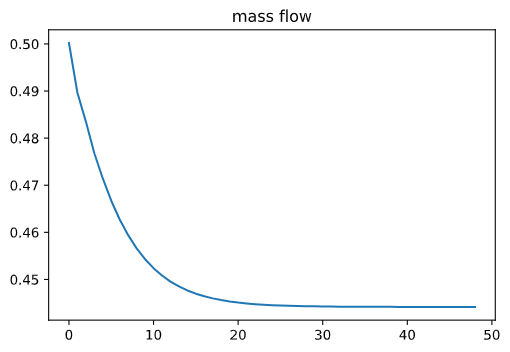
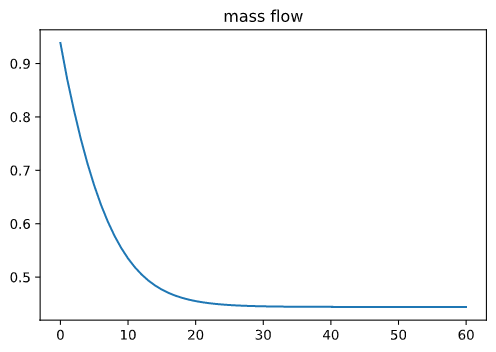
fix typos

diff --git a/simple-algorithm/index.html b/simple-algorithm/index.html
@@ -32,7 +32,7 @@
                 "url": "https:\/\/fr13ndsdp.github.io\/cover.png",
                 "width":  800 ,
                 "height":  600 
-            },"genre": "posts","keywords": "FVM, SIMPLE","wordcount":  1715 ,
+            },"genre": "posts","keywords": "FVM, SIMPLE","wordcount":  1605 ,
         "url": "https:\/\/fr13ndsdp.github.io\/simple-algorithm\/","datePublished": "2020-10-22T23:01:19+08:00","dateModified": "2020-10-23T13:48:00+08:00","license": "This work is licensed under a Creative Commons Attribution-NonCommercial 4.0 International License.","publisher": {
                 "@type": "Organization",
                 "name": "xxxx",
@@ -121,7 +121,7 @@
                                 <i class="far fa-folder fa-fw"></i>CFD
                             </a></span></div>
             <div class="post-meta-line"><i class="far fa-calendar-alt fa-fw"></i><time datetime=2020-10-22>2020-10-22</time>&nbsp;
-                <i class="fas fa-pencil-alt fa-fw"></i>约 1715 字&nbsp;
+                <i class="fas fa-pencil-alt fa-fw"></i>约 1605 字&nbsp;
                 <i class="far fa-clock fa-fw"></i>预计阅读 4 分钟&nbsp;</div>
         </div><div class="content" id="content"><p>SIMPLE 算法在一维稳态无粘不可压流动问题中的应用</p>
 <h4 id="1问题描述">1.问题描述</h4>
@@ -308,37 +308,6 @@ $$
 </span><span class="lnt">124
 </span><span class="lnt">125
 </span><span class="lnt">126
-</span><span class="lnt">127
-</span><span class="lnt">128
-</span><span class="lnt">129
-</span><span class="lnt">130
-</span><span class="lnt">131
-</span><span class="lnt">132
-</span><span class="lnt">133
-</span><span class="lnt">134
-</span><span class="lnt">135
-</span><span class="lnt">136
-</span><span class="lnt">137
-</span><span class="lnt">138
-</span><span class="lnt">139
-</span><span class="lnt">140
-</span><span class="lnt">141
-</span><span class="lnt">142
-</span><span class="lnt">143
-</span><span class="lnt">144
-</span><span class="lnt">145
-</span><span class="lnt">146
-</span><span class="lnt">147
-</span><span class="lnt">148
-</span><span class="lnt">149
-</span><span class="lnt">150
-</span><span class="lnt">151
-</span><span class="lnt">152
-</span><span class="lnt">153
-</span><span class="lnt">154
-</span><span class="lnt">155
-</span><span class="lnt">156
-</span><span class="lnt">157
 </span></code></pre></td>
 <td class="lntd">
 <pre class="chroma"><code class="language-python" data-lang="python"><span class="kn">import</span> <span class="nn">numpy</span> <span class="kn">as</span> <span class="nn">np</span>
@@ -362,31 +331,6 @@ $$
 
     <span class="k">return</span> <span class="n">phi</span>
 
-<span class="k">def</span> <span class="nf">vanLeer</span><span class="p">(</span><span class="n">u</span><span class="p">,</span><span class="n">n</span><span class="p">):</span>
-    <span class="n">re</span> <span class="o">=</span> <span class="p">(</span><span class="n">u</span><span class="p">[</span><span class="n">n</span><span class="p">]</span> <span class="o">-</span> <span class="n">u</span><span class="p">[</span><span class="n">n</span><span class="o">-</span><span class="mi">1</span><span class="p">])</span><span class="o">/</span><span class="p">(</span><span class="n">u</span><span class="p">[</span><span class="n">n</span><span class="o">+</span><span class="mi">1</span><span class="p">]</span> <span class="o">-</span> <span class="n">u</span><span class="p">[</span><span class="n">n</span><span class="p">])</span>
-    <span class="n">rw</span> <span class="o">=</span> <span class="p">(</span><span class="n">u</span><span class="p">[</span><span class="n">n</span><span class="o">-</span><span class="mi">1</span><span class="p">]</span> <span class="o">-</span> <span class="n">u</span><span class="p">[</span><span class="n">n</span><span class="o">-</span><span class="mi">2</span><span class="p">])</span><span class="o">/</span><span class="p">(</span><span class="n">u</span><span class="p">[</span><span class="n">n</span><span class="p">]</span> <span class="o">-</span> <span class="n">u</span><span class="p">[</span><span class="n">n</span><span class="o">-</span><span class="mi">1</span><span class="p">])</span>
-    <span class="n">phie</span> <span class="o">=</span> <span class="p">(</span><span class="n">re</span><span class="o">+</span><span class="nb">abs</span><span class="p">(</span><span class="n">re</span><span class="p">))</span><span class="o">/</span><span class="p">(</span><span class="mi">1</span><span class="o">+</span><span class="n">re</span><span class="p">)</span>
-    <span class="n">phiw</span> <span class="o">=</span> <span class="p">(</span><span class="n">rw</span><span class="o">+</span><span class="nb">abs</span><span class="p">(</span><span class="n">rw</span><span class="p">))</span><span class="o">/</span><span class="p">(</span><span class="mi">1</span><span class="o">+</span><span class="n">rw</span><span class="p">)</span>
-    <span class="k">return</span> <span class="n">phie</span><span class="p">,</span><span class="n">phiw</span>
-
-<span class="k">def</span> <span class="nf">minMod</span><span class="p">(</span><span class="n">u</span><span class="p">,</span><span class="n">n</span><span class="p">):</span>
-    <span class="n">re</span> <span class="o">=</span> <span class="p">(</span><span class="n">u</span><span class="p">[</span><span class="n">n</span><span class="p">]</span> <span class="o">-</span> <span class="n">u</span><span class="p">[</span><span class="n">n</span><span class="o">-</span><span class="mi">1</span><span class="p">])</span><span class="o">/</span><span class="p">(</span><span class="n">u</span><span class="p">[</span><span class="n">n</span><span class="o">+</span><span class="mi">1</span><span class="p">]</span> <span class="o">-</span> <span class="n">u</span><span class="p">[</span><span class="n">n</span><span class="p">])</span>
-    <span class="n">rw</span> <span class="o">=</span> <span class="p">(</span><span class="n">u</span><span class="p">[</span><span class="n">n</span><span class="o">-</span><span class="mi">1</span><span class="p">]</span> <span class="o">-</span> <span class="n">u</span><span class="p">[</span><span class="n">n</span><span class="o">-</span><span class="mi">2</span><span class="p">])</span><span class="o">/</span><span class="p">(</span><span class="n">u</span><span class="p">[</span><span class="n">n</span><span class="p">]</span> <span class="o">-</span> <span class="n">u</span><span class="p">[</span><span class="n">n</span><span class="o">-</span><span class="mi">1</span><span class="p">])</span>
-    <span class="k">if</span> <span class="p">(</span><span class="n">re</span> <span class="o">&gt;</span><span class="mi">0</span><span class="p">):</span>
-        <span class="n">phie</span> <span class="o">=</span> <span class="nb">min</span><span class="p">(</span><span class="n">re</span><span class="p">,</span><span class="mi">1</span><span class="p">)</span>
-    <span class="k">else</span><span class="p">:</span>
-        <span class="n">phie</span> <span class="o">=</span> <span class="mi">0</span>
-    <span class="k">if</span> <span class="p">(</span><span class="n">rw</span> <span class="o">&gt;</span><span class="mi">0</span><span class="p">):</span>
-        <span class="n">phiw</span> <span class="o">=</span> <span class="nb">min</span><span class="p">(</span><span class="n">rw</span><span class="p">,</span><span class="mi">1</span><span class="p">)</span>
-    <span class="k">else</span><span class="p">:</span>
-        <span class="n">phiw</span> <span class="o">=</span> <span class="mi">0</span>  
-    <span class="k">return</span> <span class="n">phie</span><span class="p">,</span><span class="n">phiw</span>
-
-<span class="k">def</span> <span class="nf">upwind</span><span class="p">(</span><span class="n">u</span><span class="p">,</span><span class="n">n</span><span class="p">):</span>
-    <span class="n">phie</span> <span class="o">=</span> <span class="mi">0</span>
-    <span class="n">phiw</span> <span class="o">=</span> <span class="mi">0</span>
-    <span class="k">return</span> <span class="n">phie</span><span class="p">,</span><span class="n">phiw</span>
-
 <span class="n">rho</span> <span class="o">=</span> <span class="mi">1</span>  <span class="c1"># density</span>
 <span class="n">L</span> <span class="o">=</span> <span class="mi">2</span>   <span class="c1"># length</span>
 <span class="n">n</span> <span class="o">=</span> <span class="mi">100</span>  <span class="c1"># number of pressure nodals</span>
@@ -395,9 +339,9 @@ $$
 <span class="n">p0</span> <span class="o">=</span> <span class="mi">10</span>  <span class="c1"># inlet stagnation pressure</span>
 <span class="n">p_exit</span> <span class="o">=</span> <span class="mi">0</span>  <span class="c1"># oulet gauge pressure</span>
 <span class="n">mass</span> <span class="o">=</span> <span class="p">[]</span>   <span class="c1"># mass flow</span>
-<span class="n">residual</span> <span class="o">=</span> <span class="p">[]</span>
 <span class="n">sp</span> <span class="o">=</span> <span class="p">[</span><span class="mi">1</span><span class="p">]</span>    <span class="c1"># momentum residual (source of pressure Eq.)</span>
-<span class="n">m</span> <span class="o">=</span> <span class="mf">0.5</span>  <span class="c1"># guessed mass flow</span>
+<span class="n">residual</span> <span class="o">=</span> <span class="p">[]</span> <span class="c1"># list of residual</span>
+<span class="n">m</span> <span class="o">=</span> <span class="mi">1</span>  <span class="c1"># guessed mass flow</span>
 
 <span class="c1"># matrix coeff and source term coeff</span>
 <span class="n">apu</span> <span class="o">=</span> <span class="n">np</span><span class="o">.</span><span class="n">zeros</span><span class="p">(</span><span class="n">nu</span><span class="p">)</span>
@@ -424,19 +368,16 @@ $$
 <span class="k">for</span> <span class="n">i</span> <span class="ow">in</span> <span class="nb">range</span><span class="p">(</span><span class="n">nu</span><span class="p">):</span>
     <span class="n">u</span><span class="p">[</span><span class="n">i</span><span class="p">]</span> <span class="o">=</span> <span class="n">m</span><span class="o">/</span><span class="p">(</span><span class="n">rho</span><span class="o">*</span><span class="n">Au</span><span class="p">[</span><span class="n">i</span><span class="p">])</span>
 
-<span class="n">p</span> <span class="o">=</span> <span class="n">np</span><span class="o">.</span><span class="n">linspace</span><span class="p">(</span><span class="mi">10</span><span class="p">,</span> <span class="mi">0</span><span class="p">,</span> <span class="n">n</span><span class="p">)</span>
+<span class="n">p</span> <span class="o">=</span> <span class="n">np</span><span class="o">.</span><span class="n">linspace</span><span class="p">(</span><span class="n">p0</span><span class="p">,</span> <span class="n">p_exit</span><span class="p">,</span> <span class="n">n</span><span class="p">)</span>
 <span class="n">pf</span> <span class="o">=</span> <span class="n">np</span><span class="o">.</span><span class="n">zeros</span><span class="p">(</span><span class="n">n</span><span class="p">)</span>  <span class="c1"># Pressure correction value</span>
 
 <span class="k">while</span><span class="p">(</span><span class="nb">max</span><span class="p">(</span><span class="n">sp</span><span class="p">)</span> <span class="o">&gt;</span> <span class="mf">1e-5</span><span class="p">):</span>
     <span class="n">sp</span> <span class="o">=</span> <span class="p">[]</span>
     <span class="c1"># velocity update</span>
-    <span class="k">for</span> <span class="n">i</span> <span class="ow">in</span> <span class="nb">range</span><span class="p">(</span><span class="mi">2</span><span class="p">,</span> <span class="n">nu</span><span class="o">-</span><span class="mi">1</span><span class="p">):</span>
-        <span class="n">fw</span> <span class="o">=</span> <span class="n">rho</span><span class="o">*</span><span class="p">(</span><span class="n">u</span><span class="p">[</span><span class="n">i</span><span class="o">-</span><span class="mi">1</span><span class="p">]</span><span class="o">+</span><span class="n">u</span><span class="p">[</span><span class="n">i</span><span class="p">])</span><span class="o">/</span><span class="mi">2</span><span class="o">*</span><span class="n">Ap</span><span class="p">[</span><span class="n">i</span><span class="p">]</span>
-        <span class="n">fe</span> <span class="o">=</span> <span class="n">rho</span><span class="o">*</span><span class="p">(</span><span class="n">u</span><span class="p">[</span><span class="n">i</span><span class="p">]</span><span class="o">+</span><span class="n">u</span><span class="p">[</span><span class="n">i</span><span class="o">+</span><span class="mi">1</span><span class="p">])</span><span class="o">/</span><span class="mi">2</span><span class="o">*</span><span class="n">Ap</span><span class="p">[</span><span class="n">i</span><span class="o">+</span><span class="mi">1</span><span class="p">]</span>
-        <span class="n">phie</span><span class="p">,</span><span class="n">phiw</span> <span class="o">=</span> <span class="n">upwind</span><span class="p">(</span><span class="n">u</span><span class="p">,</span><span class="n">i</span><span class="p">)</span>
-        <span class="n">awu</span><span class="p">[</span><span class="n">i</span><span class="p">]</span> <span class="o">=</span> <span class="n">fw</span><span class="o">*</span><span class="p">(</span><span class="mi">1</span><span class="o">-</span><span class="mf">0.5</span><span class="o">*</span><span class="n">phiw</span><span class="p">)</span>
-        <span class="n">aeu</span><span class="p">[</span><span class="n">i</span><span class="p">]</span> <span class="o">=</span> <span class="o">-</span><span class="mf">0.5</span><span class="o">*</span><span class="n">fe</span><span class="o">*</span><span class="n">phie</span>  <span class="c1"># upwind scheme</span>
-        <span class="n">apu</span><span class="p">[</span><span class="n">i</span><span class="p">]</span> <span class="o">=</span> <span class="n">awu</span><span class="p">[</span><span class="n">i</span><span class="p">]</span><span class="o">+</span><span class="n">aeu</span><span class="p">[</span><span class="n">i</span><span class="p">]</span><span class="o">+</span><span class="n">fe</span><span class="o">-</span><span class="n">fw</span>  <span class="c1"># awu[i]+aeu[i]+ (F_e-F_w)</span>
+    <span class="k">for</span> <span class="n">i</span> <span class="ow">in</span> <span class="nb">range</span><span class="p">(</span><span class="mi">1</span><span class="p">,</span> <span class="n">nu</span><span class="o">-</span><span class="mi">1</span><span class="p">):</span>
+        <span class="n">awu</span><span class="p">[</span><span class="n">i</span><span class="p">]</span> <span class="o">=</span> <span class="n">rho</span><span class="o">*</span><span class="p">(</span><span class="n">u</span><span class="p">[</span><span class="n">i</span><span class="o">-</span><span class="mi">1</span><span class="p">]</span><span class="o">+</span><span class="n">u</span><span class="p">[</span><span class="n">i</span><span class="p">])</span><span class="o">/</span><span class="mi">2</span><span class="o">*</span><span class="n">Ap</span><span class="p">[</span><span class="n">i</span><span class="p">]</span>  <span class="c1"># F_w</span>
+        <span class="n">aeu</span><span class="p">[</span><span class="n">i</span><span class="p">]</span> <span class="o">=</span> <span class="mi">0</span>  <span class="c1"># upwind scheme</span>
+        <span class="n">apu</span><span class="p">[</span><span class="n">i</span><span class="p">]</span> <span class="o">=</span> <span class="n">rho</span><span class="o">*</span><span class="p">(</span><span class="n">u</span><span class="p">[</span><span class="n">i</span><span class="p">]</span><span class="o">+</span><span class="n">u</span><span class="p">[</span><span class="n">i</span><span class="o">+</span><span class="mi">1</span><span class="p">])</span><span class="o">/</span><span class="mi">2</span> <span class="o">*</span> <span class="n">Ap</span><span class="p">[</span><span class="n">i</span><span class="o">+</span><span class="mi">1</span><span class="p">]</span>  <span class="c1"># awu[i]+aeu[i]+ (F_e-F_w)</span>
         <span class="n">apu</span><span class="p">[</span><span class="n">i</span><span class="p">]</span> <span class="o">=</span> <span class="n">apu</span><span class="p">[</span><span class="n">i</span><span class="p">]</span><span class="o">/</span><span class="n">alpha_u</span>  <span class="c1"># velocity relaxation</span>
         <span class="n">suu</span><span class="p">[</span><span class="n">i</span><span class="p">]</span> <span class="o">=</span> <span class="n">Au</span><span class="p">[</span><span class="n">i</span><span class="p">]</span><span class="o">*</span><span class="p">(</span><span class="n">p</span><span class="p">[</span><span class="n">i</span><span class="p">]</span><span class="o">-</span><span class="n">p</span><span class="p">[</span><span class="n">i</span><span class="o">+</span><span class="mi">1</span><span class="p">])</span> <span class="o">+</span> <span class="p">(</span><span class="mi">1</span><span class="o">-</span><span class="n">alpha_u</span><span class="p">)</span><span class="o">*</span><span class="n">apu</span><span class="p">[</span><span class="n">i</span><span class="p">]</span><span class="o">*</span><span class="n">u</span><span class="p">[</span><span class="n">i</span><span class="p">]</span>
         <span class="n">d</span><span class="p">[</span><span class="n">i</span><span class="p">]</span> <span class="o">=</span> <span class="n">Au</span><span class="p">[</span><span class="n">i</span><span class="p">]</span><span class="o">/</span><span class="n">apu</span><span class="p">[</span><span class="n">i</span><span class="p">]</span>
@@ -448,20 +389,16 @@ $$
         <span class="p">(</span><span class="n">Au</span><span class="p">[</span><span class="mi">0</span><span class="p">]</span><span class="o">/</span><span class="n">Ap</span><span class="p">[</span><span class="mi">0</span><span class="p">])</span><span class="o">*</span><span class="n">u</span><span class="p">[</span><span class="mi">0</span><span class="p">]</span><span class="o">+</span><span class="p">(</span><span class="mi">1</span><span class="o">-</span><span class="n">alpha_u</span><span class="p">)</span><span class="o">*</span><span class="n">apu</span><span class="p">[</span><span class="mi">0</span><span class="p">]</span><span class="o">*</span><span class="n">u</span><span class="p">[</span><span class="mi">0</span><span class="p">]</span>
     <span class="n">d</span><span class="p">[</span><span class="mi">0</span><span class="p">]</span> <span class="o">=</span> <span class="n">Au</span><span class="p">[</span><span class="mi">0</span><span class="p">]</span><span class="o">/</span><span class="n">apu</span><span class="p">[</span><span class="mi">0</span><span class="p">]</span>
 
-    <span class="n">awu</span><span class="p">[</span><span class="mi">1</span><span class="p">]</span> <span class="o">=</span> <span class="n">rho</span><span class="o">*</span><span class="p">(</span><span class="n">u</span><span class="p">[</span><span class="mi">0</span><span class="p">]</span><span class="o">+</span><span class="n">u</span><span class="p">[</span><span class="mi">1</span><span class="p">])</span><span class="o">/</span><span class="mi">2</span><span class="o">*</span><span class="n">Ap</span><span class="p">[</span><span class="mi">1</span><span class="p">]</span>
-    <span class="n">apu</span><span class="p">[</span><span class="mi">1</span><span class="p">]</span> <span class="o">=</span> <span class="p">(</span><span class="n">rho</span><span class="o">*</span><span class="p">(</span><span class="n">u</span><span class="p">[</span><span class="mi">1</span><span class="p">]</span><span class="o">+</span><span class="n">u</span><span class="p">[</span><span class="mi">2</span><span class="p">])</span><span class="o">/</span><span class="mi">2</span><span class="o">*</span><span class="n">Ap</span><span class="p">[</span><span class="mi">2</span><span class="p">])</span><span class="o">/</span><span class="n">alpha_u</span>
-    <span class="n">suu</span><span class="p">[</span><span class="mi">1</span><span class="p">]</span> <span class="o">=</span> <span class="n">Au</span><span class="p">[</span><span class="mi">1</span><span class="p">]</span><span class="o">*</span><span class="p">(</span><span class="n">p</span><span class="p">[</span><span class="mi">1</span><span class="p">]</span> <span class="o">-</span> <span class="n">p</span><span class="p">[</span><span class="mi">2</span><span class="p">])</span> <span class="o">+</span> <span class="p">(</span><span class="mi">1</span><span class="o">-</span><span class="n">alpha_u</span><span class="p">)</span><span class="o">*</span><span class="n">apu</span><span class="p">[</span><span class="mi">1</span><span class="p">]</span><span class="o">*</span><span class="n">u</span><span class="p">[</span><span class="mi">1</span><span class="p">]</span>
-    <span class="n">d</span><span class="p">[</span><span class="mi">1</span><span class="p">]</span> <span class="o">=</span> <span class="n">Au</span><span class="p">[</span><span class="mi">1</span><span class="p">]</span><span class="o">/</span><span class="n">apu</span><span class="p">[</span><span class="mi">1</span><span class="p">]</span>
-
     <span class="n">awu</span><span class="p">[</span><span class="n">nu</span><span class="o">-</span><span class="mi">1</span><span class="p">]</span> <span class="o">=</span> <span class="n">rho</span><span class="o">*</span><span class="p">(</span><span class="n">u</span><span class="p">[</span><span class="n">nu</span><span class="o">-</span><span class="mi">2</span><span class="p">]</span><span class="o">+</span><span class="n">u</span><span class="p">[</span><span class="n">nu</span><span class="o">-</span><span class="mi">1</span><span class="p">])</span><span class="o">/</span><span class="mi">2</span><span class="o">*</span><span class="n">Ap</span><span class="p">[</span><span class="n">nu</span><span class="o">-</span><span class="mi">1</span><span class="p">]</span>
-    <span class="n">apu</span><span class="p">[</span><span class="n">nu</span><span class="o">-</span><span class="mi">1</span><span class="p">]</span> <span class="o">=</span> <span class="p">(</span><span class="n">rho</span><span class="o">*</span><span class="n">u</span><span class="p">[</span><span class="n">nu</span><span class="o">-</span><span class="mi">1</span><span class="p">]</span><span class="o">*</span><span class="n">Au</span><span class="p">[</span><span class="n">nu</span><span class="o">-</span><span class="mi">1</span><span class="p">]</span><span class="o">*</span><span class="n">Au</span><span class="p">[</span><span class="n">nu</span><span class="o">-</span><span class="mi">1</span><span class="p">]</span><span class="o">/</span><span class="n">Ap</span><span class="p">[</span><span class="n">n</span><span class="o">-</span><span class="mi">1</span><span class="p">])</span><span class="o">/</span><span class="n">alpha_u</span>
+    <span class="n">apu</span><span class="p">[</span><span class="n">nu</span><span class="o">-</span><span class="mi">1</span><span class="p">]</span> <span class="o">=</span> <span class="n">rho</span><span class="o">*</span><span class="n">u</span><span class="p">[</span><span class="n">nu</span><span class="o">-</span><span class="mi">1</span><span class="p">]</span><span class="o">*</span><span class="n">Au</span><span class="p">[</span><span class="n">nu</span><span class="o">-</span><span class="mi">1</span><span class="p">]</span><span class="o">*</span><span class="n">Au</span><span class="p">[</span><span class="n">nu</span><span class="o">-</span><span class="mi">1</span><span class="p">]</span><span class="o">/</span><span class="n">Ap</span><span class="p">[</span><span class="n">n</span><span class="o">-</span><span class="mi">1</span><span class="p">]</span>
+    <span class="n">apu</span><span class="p">[</span><span class="n">nu</span><span class="o">-</span><span class="mi">1</span><span class="p">]</span> <span class="o">=</span> <span class="n">apu</span><span class="p">[</span><span class="n">nu</span><span class="o">-</span><span class="mi">1</span><span class="p">]</span><span class="o">/</span><span class="n">alpha_u</span>  <span class="c1"># velocity relaxation</span>
     <span class="n">suu</span><span class="p">[</span><span class="n">nu</span><span class="o">-</span><span class="mi">1</span><span class="p">]</span> <span class="o">=</span> <span class="n">Au</span><span class="p">[</span><span class="n">nu</span><span class="o">-</span><span class="mi">1</span><span class="p">]</span><span class="o">*</span><span class="p">(</span><span class="n">p</span><span class="p">[</span><span class="n">nu</span><span class="o">-</span><span class="mi">1</span><span class="p">]</span> <span class="o">-</span> <span class="n">p</span><span class="p">[</span><span class="n">nu</span><span class="p">])</span> <span class="o">+</span> <span class="p">(</span><span class="mi">1</span><span class="o">-</span><span class="n">alpha_u</span><span class="p">)</span><span class="o">*</span><span class="n">apu</span><span class="p">[</span><span class="n">nu</span><span class="o">-</span><span class="mi">1</span><span class="p">]</span><span class="o">*</span><span class="n">u</span><span class="p">[</span><span class="n">nu</span><span class="o">-</span><span class="mi">1</span><span class="p">]</span>
     <span class="n">d</span><span class="p">[</span><span class="n">nu</span><span class="o">-</span><span class="mi">1</span><span class="p">]</span> <span class="o">=</span> <span class="n">Au</span><span class="p">[</span><span class="n">nu</span><span class="o">-</span><span class="mi">1</span><span class="p">]</span><span class="o">/</span><span class="n">apu</span><span class="p">[</span><span class="n">nu</span><span class="o">-</span><span class="mi">1</span><span class="p">]</span>
 
     <span class="n">u</span> <span class="o">=</span> <span class="n">sol</span><span class="p">(</span><span class="n">awu</span><span class="p">,</span> <span class="n">apu</span><span class="p">,</span> <span class="n">aeu</span><span class="p">,</span> <span class="n">suu</span><span class="p">)</span>
 
     <span class="c1"># pressure update</span>
-    <span class="k">for</span> <span class="n">i</span> <span class="ow">in</span> <span class="nb">range</span><span class="p">(</span><span class="mi">1</span><span class="p">,</span><span class="n">n</span><span class="o">-</span><span class="mi">1</span><span class="p">):</span>
+    <span class="k">for</span> <span class="n">i</span> <span class="ow">in</span> <span class="nb">range</span><span class="p">(</span><span class="mi">1</span><span class="p">,</span> <span class="n">n</span><span class="o">-</span><span class="mi">1</span><span class="p">):</span>
         <span class="n">awp</span><span class="p">[</span><span class="n">i</span><span class="p">]</span> <span class="o">=</span> <span class="n">rho</span><span class="o">*</span><span class="n">d</span><span class="p">[</span><span class="n">i</span><span class="o">-</span><span class="mi">1</span><span class="p">]</span><span class="o">*</span><span class="n">Au</span><span class="p">[</span><span class="n">i</span><span class="o">-</span><span class="mi">1</span><span class="p">]</span>
         <span class="n">aep</span><span class="p">[</span><span class="n">i</span><span class="p">]</span> <span class="o">=</span> <span class="n">rho</span><span class="o">*</span><span class="n">d</span><span class="p">[</span><span class="n">i</span><span class="p">]</span><span class="o">*</span><span class="n">Au</span><span class="p">[</span><span class="n">i</span><span class="p">]</span>
         <span class="n">app</span><span class="p">[</span><span class="n">i</span><span class="p">]</span> <span class="o">=</span> <span class="n">awp</span><span class="p">[</span><span class="n">i</span><span class="p">]</span><span class="o">+</span><span class="n">aep</span><span class="p">[</span><span class="n">i</span><span class="p">]</span>
@@ -489,13 +426,14 @@ $$
     <span class="n">mass</span><span class="o">.</span><span class="n">append</span><span class="p">(</span><span class="n">rho</span><span class="o">*</span><span class="n">Au</span><span class="p">[</span><span class="mi">0</span><span class="p">]</span><span class="o">*</span><span class="n">u</span><span class="p">[</span><span class="mi">0</span><span class="p">])</span>
     <span class="n">residual</span><span class="o">.</span><span class="n">append</span><span class="p">(</span><span class="nb">max</span><span class="p">(</span><span class="n">sp</span><span class="p">))</span>
 
+
 <span class="n">plt</span><span class="o">.</span><span class="n">figure</span><span class="p">(</span><span class="mi">1</span><span class="p">)</span>
 <span class="n">plt</span><span class="o">.</span><span class="n">plot</span><span class="p">(</span><span class="n">mass</span><span class="p">)</span>
 <span class="n">plt</span><span class="o">.</span><span class="n">title</span><span class="p">(</span><span class="s2">&#34;mass flow&#34;</span><span class="p">)</span>
 <span class="n">plt</span><span class="o">.</span><span class="n">figure</span><span class="p">(</span><span class="mi">2</span><span class="p">)</span>
+<span class="n">plt</span><span class="o">.</span><span class="n">yscale</span><span class="p">(</span><span class="s1">&#39;log&#39;</span><span class="p">)</span>
 <span class="n">plt</span><span class="o">.</span><span class="n">plot</span><span class="p">(</span><span class="n">residual</span><span class="p">)</span>
 <span class="n">plt</span><span class="o">.</span><span class="n">title</span><span class="p">(</span><span class="s2">&#34;max residual&#34;</span><span class="p">)</span>
-
 <span class="k">print</span><span class="p">(</span><span class="s2">&#34;mass flow:&#34;</span><span class="p">,</span> <span class="n">mass</span><span class="p">[</span><span class="o">-</span><span class="mi">1</span><span class="p">])</span>
 <span class="k">print</span><span class="p">(</span><span class="s2">&#34;momentum residual:&#34;</span><span class="p">,</span> <span class="nb">max</span><span class="p">(</span><span class="n">sp</span><span class="p">))</span>
 </code></pre></td></tr></table>
@@ -516,7 +454,7 @@ $$
         </figcaption>
 </figure>
 
-<p>上面的代码使用一节迎风格式，采用压力修正方程中源项的绝对值的最大值作为判断收敛依据，采用100个压力节点得到收敛解：质量流量$0.444\ kg/s$，并得到了压力、速度的分布。</p>
+<p>上面的代码使用一阶迎风格式，采用压力修正方程中源项的绝对值的最大值作为判断收敛依据，采用100个压力节点得到收敛解：质量流量$0.444\ kg/s$，并得到了压力、速度的分布。</p>
 <p>不妨试一试使用Van Leer格式，如下
 $$
 \phi_e = \phi_P + \frac{1}{2}\Psi(r)(\phi_E - \phi_P)
@@ -533,7 +471,15 @@ $$</p>
         </figcaption>
 </figure>
 
-<p>当$\Psi(r)$取零时就转化为了一阶迎风。理论上他是二阶精度的，使用下面的方法离散动量方程（忽略我这tedious的写法），需要特别小心边界上的处理方法，采用镜象法计算出$\Psi(r)$。其中同样使用了延迟修正方法，把TVD格式中除去迎风项都放到源项里，就可以用TDMA解方程了。</p>
+<p>当$\Psi(r)$取零时就转化为了一阶迎风。理论上他是二阶精度的，使用下面的方法离散动量方程（忽略我这tedious的写法）。</p>
+<div class="details admonition tip open">
+        <div class="details-summary admonition-title">
+            <i class="icon fas fa-lightbulb fa-fw"></i>技巧<i class="details-icon fas fa-angle-right fa-fw"></i>
+        </div>
+        <div class="details-content">
+            <div class="admonition-content">需要特别小心边界上的处理方法，采用镜象法计算出$\Psi(r)$。其中同样使用了延迟修正方法，把TVD格式中除去迎风项都放到源项里，就可以用TDMA解方程了。</div>
+        </div>
+    </div>
 <div class="highlight"><div class="chroma">
 <table class="lntable"><tr><td class="lntd">
 <pre class="chroma"><code><span class="lnt"> 1

diff --git a/index.html b/index.html
@@ -105,7 +105,7 @@
         data-src="/images/avatar.png"
         alt="主页"
         title="主页" /></a>
-        </div><h2 class="home-subtitle"><div id="id-d56695" class="typeit"></div></h2><div class="social-links"><a href="https://github.com/FR13ndSDP" title="GitHub" target="_blank" rel="noopener noreffer me"><i class="fab fa-github-alt fa-fw"></i></a><a href="https://www.zhihu.com/people/dong-liang-song-74" title="知乎" target="_blank" rel="noopener noreffer me"><i data-svg-src="/lib/simple-icons/icons/zhihu.min.svg"></i></a><a href="mailto:mylab_octave@163.com" title="Email" rel=" me"><i class="far fa-envelope fa-fw"></i></a><a href="/index.xml" title="RSS" target="_blank" rel="noopener noreffer me"><i class="fas fa-rss fa-fw"></i></a></div></div>
+        </div><h2 class="home-subtitle"><div id="id-16772b" class="typeit"></div></h2><div class="social-links"><a href="https://github.com/FR13ndSDP" title="GitHub" target="_blank" rel="noopener noreffer me"><i class="fab fa-github-alt fa-fw"></i></a><a href="https://www.zhihu.com/people/dong-liang-song-74" title="知乎" target="_blank" rel="noopener noreffer me"><i data-svg-src="/lib/simple-icons/icons/zhihu.min.svg"></i></a><a href="mailto:mylab_octave@163.com" title="Email" rel=" me"><i class="far fa-envelope fa-fw"></i></a><a href="/index.xml" title="RSS" target="_blank" rel="noopener noreffer me"><i class="fas fa-rss fa-fw"></i></a></div></div>
 <article class="single summary" itemscope itemtype="http://schema.org/Article"><h1 class="single-title" itemprop="name headline">
         <a href="/multigrid-algorithm/">Multigrid Method</a>
     </h1><div class="post-meta"><span class="post-author"><a href="/" title="Author" rel=" author" class="author"><i class="fas fa-user-circle fa-fw"></i>Fr13ndSDP</a></span>&nbsp;<span class="post-publish">
@@ -202,6 +202,6 @@
                 <i class="fas fa-comment fa-fw"></i>
             </a>
         </div><script type="text/javascript">
-    window.config = {"code":{"copyTitle":"复制到剪贴板","maxShownLines":10},"data":{"id-d56695":"What I cannot create, I do not understand."},"headerMode":{"desktop":"fixed","mobile":"auto"},"search":{"algoliaAppID":"PASDMWALPK","algoliaIndex":"index.zh-cn","algoliaSearchKey":"b42948e51daaa93df92381c8e2ac0f93","noResultsFound":"没有找到结果","type":"algolia"},"typeit":[["id-d56695"]]};
+    window.config = {"code":{"copyTitle":"复制到剪贴板","maxShownLines":10},"data":{"id-16772b":"What I cannot create, I do not understand."},"headerMode":{"desktop":"fixed","mobile":"auto"},"search":{"algoliaAppID":"PASDMWALPK","algoliaIndex":"index.zh-cn","algoliaSearchKey":"b42948e51daaa93df92381c8e2ac0f93","noResultsFound":"没有找到结果","type":"algolia"},"typeit":[["id-16772b"]]};
 </script><script type="text/javascript" src="https://polyfill.io/v3/polyfill.min.js?features=Element.prototype.closest%2CrequestAnimationFrame%2CCustomEvent%2CPromise%2CObject.entries%2CObject.assign%2CObject.values%2Cfetch%2CElement.prototype.after%2CArray.prototype.fill%2CIntersectionObserver%2CArray.from%2CArray.prototype.find%2CMath.sign"></script><script type="text/javascript" src="/lib/smooth-scroll/smooth-scroll.min.js"></script><script type="text/javascript" src="/lib/autocomplete/autocomplete.min.js"></script><script type="text/javascript" src="/lib/algoliasearch/algoliasearch-lite.umd.min.js"></script><script type="text/javascript" src="/lib/lazysizes/lazysizes.min.js"></script><script type="text/javascript" src="/lib/clipboard/clipboard.min.js"></script><script type="text/javascript" src="/lib/sharer/sharer.min.js"></script><script type="text/javascript" src="/lib/typeit/typeit.min.js"></script><script type="text/javascript" src="/js/theme.min.js"></script></body>
 </html>

diff --git a/page/2/index.html b/page/2/index.html
@@ -105,7 +105,7 @@
         data-src="/images/avatar.png"
         alt="主页"
         title="主页" /></a>
-        </div><h2 class="home-subtitle"><div id="id-16d6a5" class="typeit"></div></h2><div class="social-links"><a href="https://github.com/FR13ndSDP" title="GitHub" target="_blank" rel="noopener noreffer me"><i class="fab fa-github-alt fa-fw"></i></a><a href="https://www.zhihu.com/people/dong-liang-song-74" title="知乎" target="_blank" rel="noopener noreffer me"><i data-svg-src="/lib/simple-icons/icons/zhihu.min.svg"></i></a><a href="mailto:mylab_octave@163.com" title="Email" rel=" me"><i class="far fa-envelope fa-fw"></i></a><a href="/index.xml" title="RSS" target="_blank" rel="noopener noreffer me"><i class="fas fa-rss fa-fw"></i></a></div></div>
+        </div><h2 class="home-subtitle"><div id="id-d8606e" class="typeit"></div></h2><div class="social-links"><a href="https://github.com/FR13ndSDP" title="GitHub" target="_blank" rel="noopener noreffer me"><i class="fab fa-github-alt fa-fw"></i></a><a href="https://www.zhihu.com/people/dong-liang-song-74" title="知乎" target="_blank" rel="noopener noreffer me"><i data-svg-src="/lib/simple-icons/icons/zhihu.min.svg"></i></a><a href="mailto:mylab_octave@163.com" title="Email" rel=" me"><i class="far fa-envelope fa-fw"></i></a><a href="/index.xml" title="RSS" target="_blank" rel="noopener noreffer me"><i class="fas fa-rss fa-fw"></i></a></div></div>
 <article class="single summary" itemscope itemtype="http://schema.org/Article"><div class="featured-image-preview">
             <a href="/hugo-go/"><img
         class="lazyload"
@@ -147,6 +147,6 @@
                 <i class="fas fa-comment fa-fw"></i>
             </a>
         </div><script type="text/javascript">
-    window.config = {"code":{"copyTitle":"复制到剪贴板","maxShownLines":10},"data":{"id-16d6a5":"What I cannot create, I do not understand."},"headerMode":{"desktop":"fixed","mobile":"auto"},"search":{"algoliaAppID":"PASDMWALPK","algoliaIndex":"index.zh-cn","algoliaSearchKey":"b42948e51daaa93df92381c8e2ac0f93","noResultsFound":"没有找到结果","type":"algolia"},"typeit":[["id-16d6a5"]]};
+    window.config = {"code":{"copyTitle":"复制到剪贴板","maxShownLines":10},"data":{"id-d8606e":"What I cannot create, I do not understand."},"headerMode":{"desktop":"fixed","mobile":"auto"},"search":{"algoliaAppID":"PASDMWALPK","algoliaIndex":"index.zh-cn","algoliaSearchKey":"b42948e51daaa93df92381c8e2ac0f93","noResultsFound":"没有找到结果","type":"algolia"},"typeit":[["id-d8606e"]]};
 </script><script type="text/javascript" src="https://polyfill.io/v3/polyfill.min.js?features=Element.prototype.closest%2CrequestAnimationFrame%2CCustomEvent%2CPromise%2CObject.entries%2CObject.assign%2CObject.values%2Cfetch%2CElement.prototype.after%2CArray.prototype.fill%2CIntersectionObserver%2CArray.from%2CArray.prototype.find%2CMath.sign"></script><script type="text/javascript" src="/lib/smooth-scroll/smooth-scroll.min.js"></script><script type="text/javascript" src="/lib/autocomplete/autocomplete.min.js"></script><script type="text/javascript" src="/lib/algoliasearch/algoliasearch-lite.umd.min.js"></script><script type="text/javascript" src="/lib/lazysizes/lazysizes.min.js"></script><script type="text/javascript" src="/lib/clipboard/clipboard.min.js"></script><script type="text/javascript" src="/lib/sharer/sharer.min.js"></script><script type="text/javascript" src="/lib/typeit/typeit.min.js"></script><script type="text/javascript" src="/js/theme.min.js"></script></body>
 </html>

diff --git a/en/index.html b/en/index.html
@@ -105,7 +105,7 @@
         data-src="/images/avatar.png"
         alt="Home"
         title="Home" /></a>
-        </div><h2 class="home-subtitle"><div id="id-d9a6bd" class="typeit"></div></h2><div class="social-links"></div></div>
+        </div><h2 class="home-subtitle"><div id="id-2c51a8" class="typeit"></div></h2><div class="social-links"></div></div>
 </div></div>
             </main><footer class="footer">
         <div class="footer-container"><div class="footer-line">Powered by <a href="https://gohugo.io/" target="_blank" rel="noopener noreffer" title="Hugo 0.72.0">Hugo</a> | Theme - <a href="https://github.com/dillonzq/LoveIt" target="_blank" rel="noopener noreffer" title="LoveIt 0.2.0"><i class="far fa-kiss-wink-heart fa-fw"></i> LoveIt</a>
@@ -119,6 +119,6 @@
                 <i class="fas fa-comment fa-fw"></i>
             </a>
         </div><script type="text/javascript">
-    window.config = {"code":{"copyTitle":"Copy to clipboard","maxShownLines":10},"data":{"id-d9a6bd":"HULA"},"headerMode":{"desktop":"fixed","mobile":"auto"},"search":{"algoliaAppID":"PASDMWALPK","algoliaIndex":"index.en","algoliaSearchKey":"b42948e51daaa93df92381c8e2ac0f93","noResultsFound":"No results found","type":"algolia"},"typeit":[["id-d9a6bd"]]};
+    window.config = {"code":{"copyTitle":"Copy to clipboard","maxShownLines":10},"data":{"id-2c51a8":"HULA"},"headerMode":{"desktop":"fixed","mobile":"auto"},"search":{"algoliaAppID":"PASDMWALPK","algoliaIndex":"index.en","algoliaSearchKey":"b42948e51daaa93df92381c8e2ac0f93","noResultsFound":"No results found","type":"algolia"},"typeit":[["id-2c51a8"]]};
 </script><script type="text/javascript" src="https://polyfill.io/v3/polyfill.min.js?features=Element.prototype.closest%2CrequestAnimationFrame%2CCustomEvent%2CPromise%2CObject.entries%2CObject.assign%2CObject.values%2Cfetch%2CElement.prototype.after%2CArray.prototype.fill%2CIntersectionObserver%2CArray.from%2CArray.prototype.find%2CMath.sign"></script><script type="text/javascript" src="/lib/smooth-scroll/smooth-scroll.min.js"></script><script type="text/javascript" src="/lib/autocomplete/autocomplete.min.js"></script><script type="text/javascript" src="/lib/algoliasearch/algoliasearch-lite.umd.min.js"></script><script type="text/javascript" src="/lib/lazysizes/lazysizes.min.js"></script><script type="text/javascript" src="/lib/clipboard/clipboard.min.js"></script><script type="text/javascript" src="/lib/sharer/sharer.min.js"></script><script type="text/javascript" src="/lib/typeit/typeit.min.js"></script><script type="text/javascript" src="/js/theme.min.js"></script></body>
 </html>

diff --git a/simple-algorithm/index.md b/simple-algorithm/index.md
@@ -75,31 +75,6 @@ def sol(aw, ap, ae, su):
 
     return phi
 
-def vanLeer(u,n):
-    re = (u[n] - u[n-1])/(u[n+1] - u[n])
-    rw = (u[n-1] - u[n-2])/(u[n] - u[n-1])
-    phie = (re+abs(re))/(1+re)
-    phiw = (rw+abs(rw))/(1+rw)
-    return phie,phiw
-
-def minMod(u,n):
-    re = (u[n] - u[n-1])/(u[n+1] - u[n])
-    rw = (u[n-1] - u[n-2])/(u[n] - u[n-1])
-    if (re >0):
-        phie = min(re,1)
-    else:
-        phie = 0
-    if (rw >0):
-        phiw = min(rw,1)
-    else:
-        phiw = 0  
-    return phie,phiw
-
-def upwind(u,n):
-    phie = 0
-    phiw = 0
-    return phie,phiw
-
 rho = 1  # density
 L = 2   # length
 n = 100  # number of pressure nodals
@@ -108,9 +83,9 @@ dx = L/n
 p0 = 10  # inlet stagnation pressure
 p_exit = 0  # oulet gauge pressure
 mass = []   # mass flow
-residual = []
 sp = [1]    # momentum residual (source of pressure Eq.)
-m = 0.5  # guessed mass flow
+residual = [] # list of residual
+m = 1  # guessed mass flow
 
 # matrix coeff and source term coeff
 apu = np.zeros(nu)
@@ -137,19 +112,16 @@ u = np.zeros(nu)
 for i in range(nu):
     u[i] = m/(rho*Au[i])
 
-p = np.linspace(10, 0, n)
+p = np.linspace(p0, p_exit, n)
 pf = np.zeros(n)  # Pressure correction value
 
 while(max(sp) > 1e-5):
     sp = []
     # velocity update
-    for i in range(2, nu-1):
-        fw = rho*(u[i-1]+u[i])/2*Ap[i]
-        fe = rho*(u[i]+u[i+1])/2*Ap[i+1]
-        phie,phiw = upwind(u,i)
-        awu[i] = fw*(1-0.5*phiw)
-        aeu[i] = -0.5*fe*phie  # upwind scheme
-        apu[i] = awu[i]+aeu[i]+fe-fw  # awu[i]+aeu[i]+ (F_e-F_w)
+    for i in range(1, nu-1):
+        awu[i] = rho*(u[i-1]+u[i])/2*Ap[i]  # F_w
+        aeu[i] = 0  # upwind scheme
+        apu[i] = rho*(u[i]+u[i+1])/2 * Ap[i+1]  # awu[i]+aeu[i]+ (F_e-F_w)
         apu[i] = apu[i]/alpha_u  # velocity relaxation
         suu[i] = Au[i]*(p[i]-p[i+1]) + (1-alpha_u)*apu[i]*u[i]
         d[i] = Au[i]/apu[i]
@@ -161,20 +133,16 @@ while(max(sp) > 1e-5):
         (Au[0]/Ap[0])*u[0]+(1-alpha_u)*apu[0]*u[0]
     d[0] = Au[0]/apu[0]
 
-    awu[1] = rho*(u[0]+u[1])/2*Ap[1]
-    apu[1] = (rho*(u[1]+u[2])/2*Ap[2])/alpha_u
-    suu[1] = Au[1]*(p[1] - p[2]) + (1-alpha_u)*apu[1]*u[1]
-    d[1] = Au[1]/apu[1]
-
     awu[nu-1] = rho*(u[nu-2]+u[nu-1])/2*Ap[nu-1]
-    apu[nu-1] = (rho*u[nu-1]*Au[nu-1]*Au[nu-1]/Ap[n-1])/alpha_u
+    apu[nu-1] = rho*u[nu-1]*Au[nu-1]*Au[nu-1]/Ap[n-1]
+    apu[nu-1] = apu[nu-1]/alpha_u  # velocity relaxation
     suu[nu-1] = Au[nu-1]*(p[nu-1] - p[nu]) + (1-alpha_u)*apu[nu-1]*u[nu-1]
     d[nu-1] = Au[nu-1]/apu[nu-1]
 
     u = sol(awu, apu, aeu, suu)
 
     # pressure update
-    for i in range(1,n-1):
+    for i in range(1, n-1):
         awp[i] = rho*d[i-1]*Au[i-1]
         aep[i] = rho*d[i]*Au[i]
         app[i] = awp[i]+aep[i]
@@ -202,13 +170,14 @@ while(max(sp) > 1e-5):
     mass.append(rho*Au[0]*u[0])
     residual.append(max(sp))
 
+
 plt.figure(1)
 plt.plot(mass)
 plt.title("mass flow")
 plt.figure(2)
+plt.yscale('log')
 plt.plot(residual)
 plt.title("max residual")
-
 print("mass flow:", mass[-1])
 print("momentum residual:", max(sp))
 ```
@@ -223,7 +192,7 @@ print("momentum residual:", max(sp))
 
 {{< figure src="/images/simple-algorithm/output_1_2.png" title="最大绝对残差" >}}
 
-上面的代码使用一节迎风格式，采用压力修正方程中源项的绝对值的最大值作为判断收敛依据，采用100个压力节点得到收敛解：质量流量$0.444\ kg/s$，并得到了压力、速度的分布。
+上面的代码使用一阶迎风格式，采用压力修正方程中源项的绝对值的最大值作为判断收敛依据，采用100个压力节点得到收敛解：质量流量$0.444\ kg/s$，并得到了压力、速度的分布。
 
 不妨试一试使用Van Leer格式，如下
 $$
@@ -240,7 +209,11 @@ $$
 
 {{< figure src="/images/simple-algorithm/tvd.png" title="Sweby's diagram" >}}
 
-当$\Psi(r)$取零时就转化为了一阶迎风。理论上他是二阶精度的，使用下面的方法离散动量方程（忽略我这tedious的写法），需要特别小心边界上的处理方法，采用镜象法计算出$\Psi(r)$。其中同样使用了延迟修正方法，把TVD格式中除去迎风项都放到源项里，就可以用TDMA解方程了。
+当$\Psi(r)$取零时就转化为了一阶迎风。理论上他是二阶精度的，使用下面的方法离散动量方程（忽略我这tedious的写法）。
+
+{{< admonition type=tip title="技巧" open=true >}}
+需要特别小心边界上的处理方法，采用镜象法计算出$\Psi(r)$。其中同样使用了延迟修正方法，把TVD格式中除去迎风项都放到源项里，就可以用TDMA解方程了。
+{{< /admonition >}}
 
 ```python
 def vanLeer(u,n):
